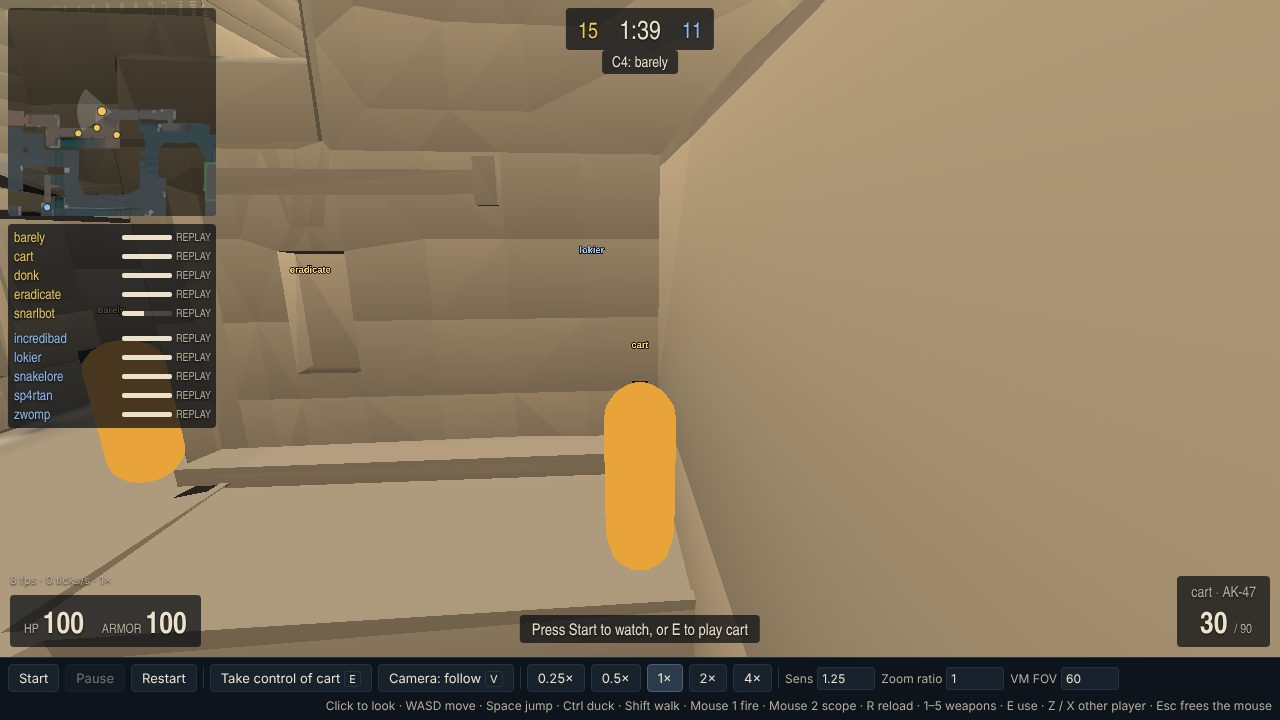
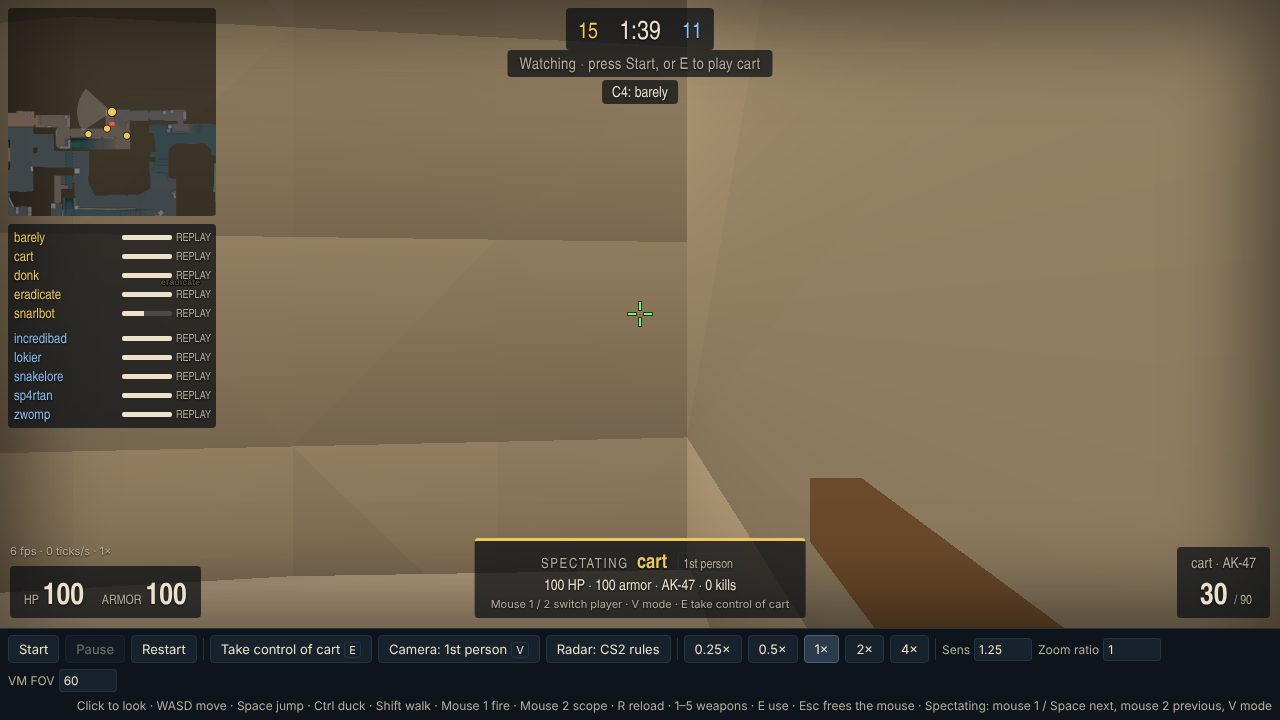
U1: spectate browser checks (radar spotting, first-person HUD and crosshair, panel, controls, ? ghost), --port, docs and screenshots
Claude-Session: https://claude.ai/code/session_01VsL73uwF2Rjn3UxUMA33dN

diff --git a/tools/browser-check3d.ts b/tools/browser-check3d.ts
@@ -16,7 +16,13 @@
  *     is 1×; the mouse turns the view by exactly counts × 1.25 × 0.022° (pointer-lock deltas through the page's
  *     automation hook, since a headless page can't lock the pointer); aims at Lokier's head, clicks mouse 1 and checks
  *     the shot was fired (the HUD's ammo drops, a tracer); screenshot (f) first person;
- *  4. fails on page errors, console errors or requests to other origins.
+ *  4. U1, spectating: at the start the T radar shows no CT (nobody spotted), "show everyone" shows all ten; first
+ *     person through Sp4rtaN's eyes shows his HP / armor / ammo / weapon, the crosshair, the spectator panel
+ *     ("SPECTATING sp4rtan", 1st person) and "Watching"; mouse 1 / Space / mouse 2 switch player, V cycles 1st → 3rd
+ *     (no crosshair) → free → 1st; then the round plays at 4× until an enemy spotted earlier shows as the "?" ghost;
+ *     screenshots app3d-spectate-*.jpg;
+ *  5. fails on page errors, console errors or requests to other origins.
+ * Port: `--port <n>` or CHECK3D_PORT (default 4180).
  * Screenshots: `--out` (default docs/img) as app3d-*.jpg.
  */
 import { createServer, type Server } from 'node:http';
@@ -27,7 +33,7 @@ import { cpus, loadavg } from 'node:os';
 import { chromium, type Browser, type Page } from 'playwright-core';
 
 const ROOT = resolve(fileURLToPath(new URL('.', import.meta.url)), '..');
-const PORT = 4180;
+const PORT = Number(process.argv.includes('--port') ? process.argv[process.argv.indexOf('--port') + 1] : (process.env['CHECK3D_PORT'] ?? '4180'));
 const ORIGIN = `http://127.0.0.1:${PORT}`;
 
 function arg(name: string, fallback: string): string {
@@ -67,6 +73,7 @@ interface Stats {
   speed: number;
   human: string | null;
   camera: string;
+  followed: string;
   look: { yaw: number; pitch: number };
   humanShots: number;
   humanHits: number;
@@ -112,6 +119,105 @@ async function rate(page: Page, speed: number): Promise<{ fps: number; tps: numb
   await page.waitForTimeout(SECONDS * 1000);
   const b = await stats(page);
   return { fps: (a.fps + b.fps) / 2, tps: (a.tps + b.tps) / 2 };
+}
+
+type Mark = { id: string; team: string; kind: string; alpha: number };
+
+/** U1: the radar's CS2 rules, first-person spectating (HUD, crosshair, panel) and the spectator controls. */
+async function spectateChecks(browser: Browser, problems: string[], shots: string[]): Promise<Record<string, unknown>> {
+  const out: Record<string, unknown> = {};
+  const p = await open(browser, 1280, 720, problems);
+  const radar = (): Promise<{ team: string | null; marks: Mark[] }> => p.evaluate(() => window.__cs2sim3d?.radar() as unknown as { team: string | null; marks: Mark[] });
+  const text = (id: string): Promise<string> => p.evaluate((id) => document.getElementById(id)?.textContent ?? '', id);
+  const hidden = (id: string): Promise<boolean> => p.evaluate((id) => document.getElementById(id)?.hidden ?? true, id);
+  // (1) The start: cart's (T) radar has the five Ts and exactly the CTs a T sees now (the reset evaluates the spotting
+  // at once); the others are hidden. The toggle shows all ten.
+  const r0 = await radar();
+  const seenByT = await p.evaluate(() => {
+    const o = window.__cs2sim3d?.session().observe();
+    const ids = new Set<string>();
+    for (const q of o?.pawns ?? []) if (q.team === 'T' && q.alive) for (const x of q.sees) ids.add(x);
+    return (o?.pawns ?? []).filter((q) => q.team === 'CT' && q.alive && ids.has(q.id)).map((q) => q.id).sort();
+  });
+  const ctShown = r0.marks.filter((m) => m.team === 'CT').map((m) => m.id).sort();
+  out['startRadar'] = { team: r0.team, ids: r0.marks.map((m) => m.id), ctSeenByT: seenByT };
+  if (r0.team !== 'T' || r0.marks.filter((m) => m.team === 'T').length !== 5 || JSON.stringify(ctShown) !== JSON.stringify(seenByT) || ctShown.length >= 5) problems.push(`spectate: start radar (CS2 rules) ${JSON.stringify(out['startRadar'])}`);
+  await p.click('#radar-rules');
+  await p.waitForTimeout(150);
+  const rAll = await radar();
+  const label = await text('radar-rules');
+  if (rAll.marks.length !== 10 || label !== 'Radar: show everyone') problems.push(`spectate: radar toggle ${JSON.stringify({ n: rAll.marks.length, label })}`);
+  const stored = await p.evaluate(() => localStorage.getItem('cs2-sim3d-settings') ?? '');
+  if (!stored.includes('"radar":"all"')) problems.push(`spectate: radar setting not stored: ${stored}`);
+  await p.click('#radar-rules');
+  // (2) First person through Sp4rtaN's eyes: his HUD, the crosshair, the panel.
+  await seek(p, 49.95);
+  await p.evaluate(() => window.__cs2sim3d?.camera('pov', 'sp4rtan'));
+  await p.waitForTimeout(400);
+  const want = await p.evaluate(() => {
+    const s = window.__cs2sim3d?.session().observe().pawns.find((q) => q.id === 'sp4rtan');
+    return s === undefined ? null : { hp: String(Math.round(s.hp)), armor: String(Math.round(s.armor)), clip: String(s.ammo.clip), weapon: s.weapon };
+  });
+  const got = { hp: await text('hp'), armor: await text('armor'), clip: await text('clip'), weapon: await text('weapon'), crosshair: !(await hidden('crosshair')), panel: await text('spec'), panelHidden: await hidden('spec'), vignette: !(await hidden('vignette')), mode: await text('mode') };
+  out['firstPerson'] = { want, got };
+  if (want === null || got.hp !== want.hp || got.armor !== want.armor || got.clip !== want.clip || !got.weapon.startsWith('sp4rtan')) problems.push(`spectate: first-person HUD ${JSON.stringify(out['firstPerson'])}`);
+  if (!got.crosshair || got.panelHidden || !got.vignette || !got.panel.startsWith('SPECTATINGsp4rtan1st person') || !got.mode.startsWith('Watching')) problems.push(`spectate: first-person panel / crosshair ${JSON.stringify(got)}`);
+  shots.push(await shot(p, 'spectate-first-person'));
+  // (3) Controls: mouse 1 next, mouse 2 previous, Space next; V 1st → 3rd → free → 1st.
+  const followed = async (): Promise<string> => (await stats(p)).followed;
+  const box = await p.locator('#view').boundingBox();
+  const order: string[] = [await followed()];
+  if (box !== null) {
+    await p.mouse.click(box.x + box.width / 2, box.y + box.height / 2, { button: 'left' });
+    await p.waitForTimeout(100);
+    order.push(await followed());
+    await p.mouse.click(box.x + box.width / 2, box.y + box.height / 2, { button: 'right' });
+    await p.waitForTimeout(100);
+    order.push(await followed());
+  }
+  await p.keyboard.press('Space');
+  await p.waitForTimeout(100);
+  order.push(await followed());
+  out['switch'] = order;
+  if (order.length !== 4 || order[1] === order[0] || order[2] !== order[0] || order[3] !== order[1]) problems.push(`spectate: mouse 1 / mouse 2 / Space ${JSON.stringify(order)}`);
+  const modes: { camera: string; crosshair: boolean; mode: string }[] = [];
+  for (let i = 0; i < 3; i++) {
+    await p.keyboard.press('KeyV');
+    await p.waitForTimeout(150);
+    modes.push({ camera: (await stats(p)).camera, crosshair: !(await hidden('crosshair')), mode: await text('spec-mode') });
+    if (i === 0) shots.push(await shot(p, 'spectate-third-person'));
+  }
+  out['modes'] = modes;
+  const m = modes.map((x) => `${x.camera}:${x.crosshair ? 'x' : '-'}:${x.mode}`).join(' ');
+  if (m !== 'follow:-:3rd person free:-:free camera pov:x:1st person') problems.push(`spectate: V cycle ${m}`);
+  // (4) The "?": play from 15 s at 4× following cart until an enemy (CT) spotted before shows as the ghost.
+  // The clicks on the view may have locked the pointer (then every click goes to the canvas): let go.
+  await p.evaluate(() => document.exitPointerLock());
+  await p.evaluate(() => window.__cs2sim3d?.camera('pov', 'cart'));
+  await seek(p, 15);
+  await p.evaluate(() => {
+    const b = document.getElementById('pause');
+    if (b instanceof HTMLButtonElement && b.textContent === 'Resume') b.click();
+  });
+  await p.click('button[data-speed="4"]');
+  let ghost: Mark | null = null;
+  let spotted = false;
+  for (let i = 0; i < 300 && ghost === null; i++) {
+    await p.waitForTimeout(100);
+    const r = await radar();
+    const enemy = r.marks.filter((x) => x.team !== r.team);
+    if (enemy.some((x) => x.kind === 'dot')) spotted = true;
+    ghost = enemy.find((x) => x.kind === 'ghost') ?? null;
+  }
+  if (ghost !== null) {
+    await p.evaluate(() => window.__cs2sim3d?.test.freeze(true));
+    await p.waitForTimeout(250);
+    shots.push(await shot(p, 'spectate-radar-ghost'));
+  }
+  out['ghost'] = { spotted, ghost, tick: (await stats(p)).tick };
+  if (!spotted || ghost === null) problems.push(`spectate: no spotted enemy / "?" ghost on cart's radar ${JSON.stringify(out['ghost'])}`);
+  await p.close();
+  return out;
 }
 
 async function main(): Promise<void> {
@@ -230,13 +336,16 @@ async function main(): Promise<void> {
     report['fire'] = { shots: t1.humanShots, hits: t1.humanHits, clip: [clipBefore, clipAfter], hp: t1.hud.hp, killfeed: feed };
     if (t1.humanShots < 1 || clipAfter === clipBefore) problems.push(`firing: ${JSON.stringify(report['fire'])}`);
     shots.push(await shot(p, 'f-first-person'));
-    report['screenshots'] = shots.map((x) => x.replace(ROOT + '/', ''));
     await p.close();
+    // 4. Spectating (U1).
+    report['spectate'] = await spectateChecks(browser, problems, shots);
+    report['screenshots'] = shots.map((x) => x.replace(ROOT + '/', ''));
   } finally {
     await browser.close();
     server.close();
   }
   report['problems'] = problems;
+  mkdirSync(join(ROOT, 'logs'), { recursive: true });
   writeFileSync(join(ROOT, 'logs', 'browser-check3d.json'), JSON.stringify(report, null, 2) + '\n');
   console.log(JSON.stringify(report, null, 2));
   if (problems.length > 0) {

diff --git a/tests/app3d-radar.test.ts b/tests/app3d-radar.test.ts
@@ -18,12 +18,12 @@ function obs(tick: number, ps: readonly P[], bomb: BombObs = NO_BOMB): Observe {
 }
 
 /** cart (T) and a teammate; donk (CT). */
-function world(tick: number, cartSees: PlayerId[], opts: { donkX?: number; donkAlive?: boolean; mateSees?: PlayerId[]; bomb?: BombObs } = {}): Observe {
+function world(tick: number, cartSees: PlayerId[], opts: { donkX?: number; donkAlive?: boolean; barelySees?: PlayerId[]; bomb?: BombObs } = {}): Observe {
   return obs(
     tick,
     [
       { id: 'cart', team: 'T', sees: cartSees },
-      { id: 'mate', team: 'T', sees: opts.mateSees ?? [] },
+      { id: 'barely', team: 'T', sees: opts.barelySees ?? [] },
       { id: 'donk', team: 'CT', x: opts.donkX ?? 100, alive: opts.donkAlive ?? true },
     ],
     opts.bomb,
@@ -37,7 +37,7 @@ describe('radar: CS2 rules', () => {
     const r = new RadarTracker();
     r.reset(world(0, []));
     const m = r.marks(world(0, []), 'T', 'cs2');
-    expect(m.map((x) => x.id).sort()).toEqual(['cart', 'mate']);
+    expect(m.map((x) => x.id).sort()).toEqual(['barely', 'cart']);
     // The CT side sees its own player but not the Ts.
     expect(r.marks(world(0, []), 'CT', 'cs2').map((x) => x.id)).toEqual(['donk']);
   });
@@ -45,16 +45,16 @@ describe('radar: CS2 rules', () => {
   it('shows everyone with the toggle', () => {
     const r = new RadarTracker();
     r.reset(world(0, []));
-    expect(r.marks(world(0, []), 'T', 'all').map((x) => x.id).sort()).toEqual(['cart', 'donk', 'mate']);
+    expect(r.marks(world(0, []), 'T', 'all').map((x) => x.id).sort()).toEqual(['barely', 'cart', 'donk']);
   });
 
   it('spots an enemy a teammate sees, on the 0.5 s spotting cadence, then leaves a fading ? at the last spot', () => {
     const r = new RadarTracker();
     r.reset(world(0, []));
     // Seen from tick 1: not yet on the radar (the next evaluation is at tick 32).
-    for (let k = 1; k < SPOT; k++) r.ingest(world(k, [], { mateSees: ['donk'] }));
+    for (let k = 1; k < SPOT; k++) r.ingest(world(k, [], { barelySees: ['donk'] }));
     expect(r.marks(world(SPOT - 1, []), 'T', 'cs2').some((x) => x.id === 'donk')).toBe(false);
-    r.ingest(world(SPOT, [], { mateSees: ['donk'], donkX: 150 }));
+    r.ingest(world(SPOT, [], { barelySees: ['donk'], donkX: 150 }));
     const dot = r.marks(world(SPOT, [], { donkX: 150 }), 'T', 'cs2').find((x) => x.id === 'donk');
     expect(dot).toMatchObject({ kind: 'dot', x: 150, alpha: 1 });
     // Out of sight from the next tick: the dot lingers (and follows) until the next evaluation.
@@ -86,9 +86,9 @@ describe('radar: CS2 rules', () => {
 
   it('puts the bomb icon on a teammate carrier; the planted bomb for everyone, a dropped one for Ts only', () => {
     const r = new RadarTracker();
-    const carried: BombObs = { ...NO_BOMB, carrier: 'mate', pos: { x: 0, y: 0, z: 0 } };
+    const carried: BombObs = { ...NO_BOMB, carrier: 'barely', pos: { x: 0, y: 0, z: 0 } };
     r.reset(world(0, [], { bomb: carried }));
-    expect(r.marks(world(0, [], { bomb: carried }), 'T', 'cs2').find((x) => x.id === 'mate')?.bomb).toBe(true);
+    expect(r.marks(world(0, [], { bomb: carried }), 'T', 'cs2').find((x) => x.id === 'barely')?.bomb).toBe(true);
     const planted: BombObs = { ...NO_BOMB, state: 'planted', pos: { x: 5, y: 6, z: 0 }, plantTick: 10 };
     expect(r.bomb(world(0, [], { bomb: planted }), 'CT', 'cs2')).toMatchObject({ x: 5, y: 6, state: 'planted' });
     const dropped: BombObs = { ...NO_BOMB, state: 'dropped', pos: { x: 5, y: 6, z: 0 } };

diff --git a/tests/app3d-spectate.test.ts b/tests/app3d-spectate.test.ts
@@ -1,5 +1,5 @@
 import { describe, expect, it } from 'vitest';
-import type { PawnObs } from '../src/contracts/index';
+import type { PawnObs, PlayerId } from '../src/contracts/index';
 import { aimOffsetPx, cycleTarget, nextSpectateMode, spectatable, spectatePanel } from '../src/app3d/spectate';
 
 const pawn = (id: string, team: 'T' | 'CT', alive = true): PawnObs => ({ id, team, alive, hp: alive ? 76.4 : 0, armor: 100, pos: { x: 0, y: 0, z: 0 }, sees: [] }) as unknown as PawnObs;
@@ -12,19 +12,19 @@ describe('spectating', () => {
   });
 
   it('cycles players both ways, wrapping', () => {
-    const ids = ['a', 'b', 'c'];
-    expect(cycleTarget(ids, 'a', 1)).toBe('b');
-    expect(cycleTarget(ids, 'c', 1)).toBe('a');
-    expect(cycleTarget(ids, 'a', -1)).toBe('c');
-    expect(cycleTarget(ids, 'dead', 1)).toBe('a');
-    expect(cycleTarget(ids, 'dead', -1)).toBe('c');
-    expect(cycleTarget([], 'x', 1)).toBe('x');
+    const ids: PlayerId[] = ['cart', 'barely', 'donk'];
+    expect(cycleTarget(ids, 'cart', 1)).toBe('barely');
+    expect(cycleTarget(ids, 'donk', 1)).toBe('cart');
+    expect(cycleTarget(ids, 'cart', -1)).toBe('donk');
+    expect(cycleTarget(ids, 'zwomp', 1)).toBe('cart');
+    expect(cycleTarget(ids, 'zwomp', -1)).toBe('donk');
+    expect(cycleTarget([], 'lokier', 1)).toBe('lokier');
   });
 
   it('a dead human spectates living teammates only while there are any', () => {
-    const ps = [pawn('cart', 'T', false), pawn('mate', 'T'), pawn('donk', 'CT')];
-    expect(spectatable(ps, 'T')).toEqual(['mate']);
-    expect(spectatable(ps, null)).toEqual(['mate', 'donk']);
+    const ps = [pawn('cart', 'T', false), pawn('barely', 'T'), pawn('donk', 'CT')];
+    expect(spectatable(ps, 'T')).toEqual(['barely']);
+    expect(spectatable(ps, null)).toEqual(['barely', 'donk']);
     expect(spectatable([pawn('cart', 'T', false), pawn('donk', 'CT')], 'T')).toEqual(['donk']);
   });
 
@@ -41,7 +41,7 @@ describe('spectating', () => {
   it('writes the spectator panel', () => {
     const p = spectatePanel(pawn('donk', 'CT'), 2, 'pov', 'AK-47', true);
     expect(p).toEqual({ name: 'donk', team: 'CT', stats: '76 HP · 100 armor · AK-47 · 2 kills', mode: '1st person', hints: 'Mouse 1 / 2 switch player · V mode · E take control of cart' });
-    expect(spectatePanel(pawn('a', 'T'), 1, 'follow', 'Knife', false)?.stats).toContain('1 kill');
+    expect(spectatePanel(pawn('cart', 'T'), 1, 'follow', 'Knife', false)?.stats).toContain('1 kill');
     expect(spectatePanel(null, 0, 'pov', '', false)).toBeNull();
   });
 });

diff --git a/src/app3d/main.ts b/src/app3d/main.ts
@@ -4,9 +4,10 @@
  * loop (src/app/loop.ts) from requestAnimationFrame and draws the Three.js view (renderer3d.ts) and the HUD
  * (hud3d.ts).
  *
- * The page starts **watching** (nobody controls cart; the round plays as recorded) with a spectator camera: third
- * person behind the followed pawn (cart), first person through its eyes, or free fly (V cycles; Z / X pick another
- * player). E or "Take control of cart" hands him to the player from that tick on (a speed other than 1× drops to 1×):
+ * The page starts **watching** (nobody controls cart; the round plays as recorded) with CS2's spectator camera
+ * (U1, spectate.ts): first person through the followed pawn's eyes (cart) with its viewmodel, HUD and crosshair,
+ * third person, or free fly (V cycles; mouse 1 / Space next player, mouse 2 previous; Z / X too), the spectator
+ * panel, and the radar under CS2's spotting rules (radar3d.ts; the panel toggle shows everyone). E or "Take control of cart" hands him to the player from that tick on (a speed other than 1× drops to 1×):
  * first-person camera at his eye (64 standing, 46 crouched), pointer-lock mouse look, WASD, Space, Ctrl, Shift,
  * mouse 1, R, 1–5, E (input3d.ts). Dead, the camera goes back to spectating. Restart watches again.
  *

diff --git a/src/app3d/hud3d.ts b/src/app3d/hud3d.ts
@@ -198,7 +198,11 @@ export class Hud3D {
         ctx.fillText('×', x, y);
       } else if (m.kind === 'ghost') {
         // CS2's last-seen marker: a "?" in the enemy's colour where it was last spotted.
-        ctx.font = 'bold 22px sans-serif';
+        ctx.fillStyle = 'rgba(0,0,0,0.55)';
+        ctx.beginPath();
+        ctx.arc(x, y, 12, 0, Math.PI * 2);
+        ctx.fill();
+        ctx.font = 'bold 24px sans-serif';
         ctx.textAlign = 'center';
         ctx.textBaseline = 'middle';
         ctx.lineWidth = 3;

diff --git a/docs/app3d.md b/docs/app3d.md
@@ -19,8 +19,9 @@ npm run check:browser:3d  # after build:3d: headless Chromium, screenshots, fps,
 - **World**: the CS2 collision mesh (data/geometry/mirage-geometry.bin, no player clips), flat shaded, in Mirage's
   colours (below). Sky and distance fog.
 - **Players**: capsules in team colours (T yellow-orange, CT blue; the human lighter), a dark visor at eye height
-  along the view, crouched shorter, the dead lying flat and grey; name tags over the human's teammates (everyone's
-  while watching).
+  along the view, crouched shorter, the dead lying flat and grey; name tags over the viewer's living teammates, and
+  over an enemy only while the viewer sees it (`sees`: never through walls). The viewer is the human, else the
+  spectated player.
 - **Effects**: 3D tracers of the last 10 ticks' bullets (`Sim3DHost.shots()`), the muzzle flash on the viewmodel,
   smokes (grey domes), molotov fires (orange discs), grenades in flight, the bomb (red, blinking when planted).
 - **First person**: the camera at the eye, a box viewmodel coloured by weapon drawn in its own pass and camera
@@ -29,21 +30,68 @@ npm run check:browser:3d  # after build:3d: headless Chromium, screenshots, fps,
   planted, who is defusing and how long is left, defused), the kill feed, the radar minimap (the CS2 radar around the
   camera, every pawn as a dot, the view cone), the team panel (HP bar, mode: REPLAY / LIVE / YOU), HP / armor and
   weapon / ammo of the pawn being viewed, the mode line, fps and ticks/s, and the end-of-round summary line 2 s after
-  the round end.
-- **Bar**: Start, Pause, Restart, Take control of cart (E), Camera (V), speed 0.25–4×, and the CS2 settings
-  (sensitivity, zoom_sensitivity_ratio, viewmodel_fov; kept in localStorage).
+  the round end. While spectating: the spectator panel and an edge vignette (below).
+- **Bar**: Start, Pause, Restart, Take control of cart (E), Camera (V), Radar (CS2 rules / show everyone), speed
+  0.25–4×, and the CS2 settings (sensitivity, zoom_sensitivity_ratio, viewmodel_fov; these and the radar toggle are
+  kept in localStorage).
 
 ## Controls
 
-Watching (default, every device): third person behind the followed pawn (the mouse orbits once the pointer is
-locked: click), V cycles third person → through its eyes → free fly (WASD, Space up, Ctrl down, Shift fast), Z / X
-the previous / next living player, P pause. When the followed pawn dies the camera moves on after 2 s.
+Watching (default, every device) and dead: spectating, as CS2 (below). P pause.
 
 **E** or the button takes control of cart from that tick (the speed drops to 1×; the pointer is locked): mouse look,
 W / S forward / back and A / D strafe relative to the view (CS2's), Space jump, Ctrl or C duck, Shift walk, mouse 1
 fire / throw, mouse 2 scope (AWP, SSG 08; the engine itself has no scope state yet, so scoped movement speed and
 accuracy come with H2), R reload, 1–5 weapon slots (as the 2D app), E use (plant, defuse). Esc frees the mouse. Dead,
-the camera spectates again. G (drop) is not implemented: the engine has no dropped weapons yet (H4).
+the camera spectates again (your living teammates first, as CS2 competitive's mp_forcecamera 1). G (drop) is not implemented: the engine has no dropped weapons yet (H4).
+
+## Spectating (U1)
+
+`src/app3d/spectate.ts` (pure), `main.ts`, `hud3d.ts`. Watching (nobody controlled) or dead:
+
+| Input | First person (default) | Third person | Free fly |
+| --- | --- | --- | --- |
+| Mouse 1 / Space | next player | next player (the click that grabs the pointer only grabs it) | mouse 1: first person on the next player (once the pointer is grabbed); Space flies up |
+| Mouse 2 | previous player | previous player | first person on the previous player |
+| Mouse | nothing (the view is theirs) | orbits | looks |
+| V | → third person | → free fly | → first person |
+| Z / X | previous / next player (kept from H1) | same | same |
+| E | take control of cart (when allowed) | same | same |
+
+- **First person** is through the spectated player's eyes exactly as they'd see it: their eye height (duck eased),
+  view angles (interpolated), their viewmodel (the box gun, flashing when they fire), their HP / armor / weapon /
+  ammo in the HUD, and their crosshair at their aim, moving with the recoil-tracked camera, the scope overlay
+  instead while scoped. The angles, crosshair and scope come from `Sim3DHost.aimView(id, view)` once H2b's weapon
+  mechanics land (camera = view + punch, crosshair = where the next bullet goes; `spectatedView` in main.ts);
+  until then the view itself, crosshair centred, no scope. The crosshair offset is the projection of the aim
+  direction through the camera (`aimOffsetPx`). No crosshair in third person or free fly.
+- **Who**: watching, every living player in id order; dead, your living teammates (everyone once they're dead).
+  When the spectated player dies the camera moves on after 2 s.
+- **Unmistakable**: the line under the score says "Watching" (or "You: cart (dead) · spectating") vs "You: cart";
+  the bottom panel says SPECTATING and the name in team colour, with the mode (1st person / 3rd person / free camera),
+  HP, armor, weapon, kills this round and the controls' hints; a soft vignette darkens the screen edges. The panel's
+  text nodes are written only when they change.
+
+## Radar (U1)
+
+`src/app3d/radar3d.ts` (pure; tests/app3d-radar.test.ts) feeds every tick's `Observe` to both teams' spotting; the
+minimap (redrawn at 10 Hz) shows the viewer's team view: the human's team, else the spectated player's.
+
+| Rule (CS2 rules, the default) | Value | Source |
+| --- | --- | --- |
+| Teammates | always shown | [SPOT] cs_player.cpp: a player's spot rules are SPOT_RULE_ENEMY \| SPOT_RULE_ALWAYS_SEEN_BY_FRIEND |
+| Enemy spotted | while any living teammate (you included) sees it (`sees`: FOV, walls, smoke) | [SPOT] cs_entity_spotting.cpp CanPlayerSeeTargetEntityFunctor |
+| Spotting cadence (the dot appears and lingers up to this late) | 0.5 s (`SPOT_INTERVAL_S`; every 32 ticks) | [SPOT] `ENTITY_SPOT_FREQUENCY 0.5f` |
+| Last seen | the dot becomes the "?" ghost at the last spotted position, fading linearly over 6 s (`GHOST_FADE_S`) | [RADAR] `GHOST_FADE_TIME 6.0f`, SetupIconsFromStates |
+| Dead | an X at the death position, fading over 4 s (`DEAD_FADE_S`); an enemy only if it was spotted when it died | [RADAR] `DEAD_FADE_TIME 4.0f` |
+| Bomb carrier | the bomb icon on the carrier's dot (Ts always; CTs while the carrier is spotted) | [RADAR] HasC4 → m_bBombIsSpotted; [SPOT] weapon_c4.cpp SPOT_RULE_CT \| SPOT_RULE_ALWAYS_SEEN_BY_T |
+| Dropped bomb | Ts only (the sim has no bomb spotting for CTs) | [SPOT] weapon_c4.cpp |
+| Planted bomb | everyone (`PLANTED_BOMB_FOR_ALL`; the brief: CS:GO's rule would need a CT to spot it) | — |
+
+Sources: the CS:GO source as mirrored in SwagSoftware/Kisak-Strike (commit `4c2fdc31`, read 2026-11-07):
+**[RADAR]** `game/client/cstrike15/Scaleform/HUD/sfhudradar.cpp`, **[SPOT]** `game/server/cstrike15/`. CS2's radar
+code isn't public; it shows the same "?" and fading X, but the timings are **unverified** for CS2 (hence tunables).
+"Radar: show everyone" (the toggle) draws every pawn, the dead as X without fading, and the bomb always.
 
 ## View: CS2's numbers, with sources
 
@@ -128,11 +176,15 @@ screenshot `#view`. The other hooks (`stats`, `session`, `takeControl`, `aimAt`,
 
 ## Browser check
 
-`tools/browser-check3d.ts` (port 4180; `--single` serves the single file). It screenshots (a) the start, (b) Lokier
+`tools/browser-check3d.ts` (port 4180, or `--port <n>` / `CHECK3D_PORT`; `--single` serves the single file). It screenshots (a) the start, (b) Lokier
 at B from cart's window (18.5 s, cart's eyes), (c) the plant (27.6 s, behind barely), (d) Sp4rtaN behind donk
 (49.95 s), (e) the defuse (64 s), (f) first person after taking control; checks the FOV (vertical 73.74°), that E
 takes control (YOU, 1×), that mouse counts turn the view by exactly counts × 1.25 × 0.022°, and that mouse 1 fires
-(ammo drops); measures fps and ticks/s at 1× and 4×.
+(ammo drops); measures fps and ticks/s at 1× and 4×. U1's spectating checks: at the start cart's radar shows the five
+Ts and exactly the CTs a T sees (the rest hidden), the toggle shows all ten and is stored; first person through
+Sp4rtaN's eyes shows his HP / armor / ammo / weapon, the crosshair, the panel ("SPECTATING sp4rtan 1st person"),
+the vignette and "Watching"; mouse 1 / mouse 2 / Space switch player; V cycles 1st → 3rd (no crosshair) → free →
+1st; playing on at 4×, an enemy spotted earlier turns into the "?" ghost. Screenshots `app3d-spectate-*.jpg`.
 
 WebGL in the sandbox's headless Chromium is software (lavapipe or SwiftShader) on two shared cores: a bare WebGL
 canvas that only clears reaches 26–50 fps at 1280 × 800 and 56–60 at 640 × 400, so the frame rate is measured at
@@ -142,3 +194,7 @@ logs/browser-check3d.json; the numbers of the H1 run are in the PR.
 
 ![The defuse](img/app3d-e-defuse.jpg)
 ![First person after taking control](img/app3d-f-first-person.jpg)
+
+![Spectating Sp4rtaN in first person: his viewmodel, crosshair and HUD, the spectator panel](img/app3d-spectate-first-person.jpg)
+![Third person: no crosshair](img/app3d-spectate-third-person.jpg)
+![The "?" on cart's radar where Sp4rtaN was last spotted](img/app3d-spectate-radar-ghost.jpg)
